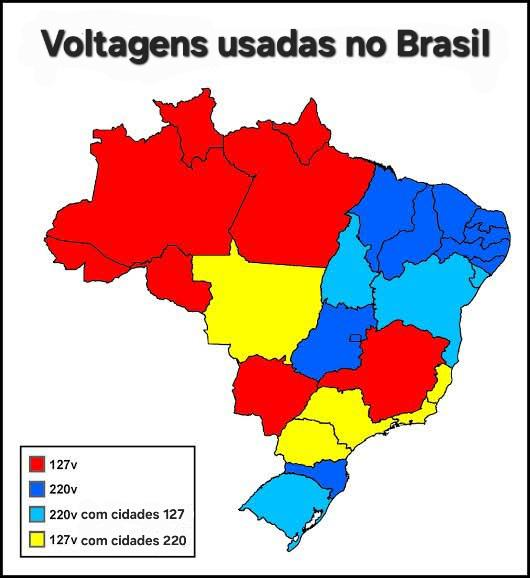
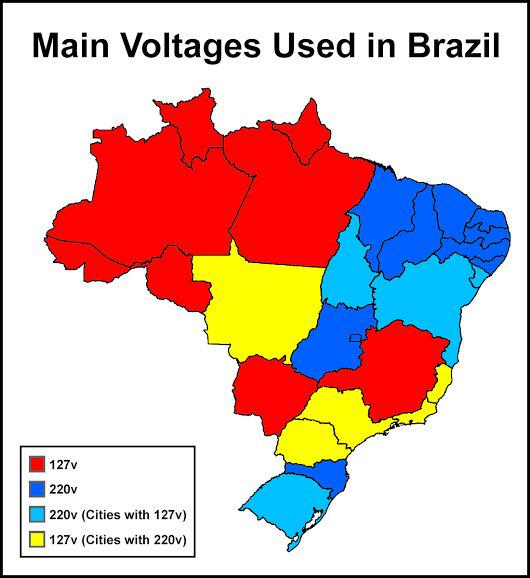
upd

diff --git a/N5020.md b/N5020.md
@@ -39,7 +39,7 @@ Internet access is included in your hotel room rate and provided in meeting spac
 ## Registration {-}
 
 Please [register](http://foo) your participation (in-person or virtual) with ISO.\
-Your information is needed for in-person attendees’ name tags and catering.\
+This is needed for name tags, transport, and catering.\
 
 ## Remote participation {-}
 
@@ -53,14 +53,14 @@ Use the "WG21" code when registering, either by [phone](tel:+55 22 2620-8850), o
 ### Travel and transportation {-}
 
 Buzios is served by the [Galeao International Airport (GIG)](https://www.riogaleao.com).\
-Transportation shuttles will be provided to the guests free of change.\
+Transportation shuttles will be provided to the guests free of charge.\
 Please [register](http://foo) when you are arriving, when you are leaving, how many persons, and the amount of luggage.\
 
 ### Meals and refreshments {-}
 
 Coffee, tea and petit-fours will be provided at the meeting for mid-morning and mid-afternoon breaks.\
-Attendees are responsible for their own meals. If you are staying at the venue hotel, breakfast will be included.\
-There are many dining options available within walking distance, including the hotel restaurant.\
+If you are staying at the venue hotel, breakfast will be included.\
+There are many restaurants within walking distance, including inside the hotel.\
 
 ### Weather {-}
 
@@ -125,17 +125,9 @@ You can expect flags indicating beach hazards and life saver stations and
 patrols.
 
 Outside of Búzios, the situation is too complicated to explain briefly.\
-In general, it is best to avoid using jewelry and other expensive items,
-such as high-end electronics.\
-Don't get distracted and stay a long time looking at your phone.\
-When using public transportation, watch your pockets and bags when standing,
-keep your bags and backpacks secured and closed, close the window if sitting next to one.\
-When walking on the streets, theft attempts will usually be in the form of a bike or motorcycle assisted grab-and-run.\
-Unless it looks obviously safe, walk far away from the road and bike lanes, and don't get distracted.\
-In public transport, thefts will usually start with some attempt at distraction or misdirection.\
-It will usually be something that happens and gets everyone looking at it, so protect your pockets when that happens.\
-Criminals usually don't operate on their own; they have lookouts and their own security hiding in plain sight,
-so you risk getting outnumbered if you react aggressively.\
+In general, it is best to avoid using jewelry and other expensive items.\
+Don't get distracted and stay a long time looking at your phone. Watch for pickpockets.\
+Avoid grab and runs by walking a safe distance from roads and bike lanes.\
 Don't go into favelas on your own. Don't blindly follow GPS. Don't walk alone in dark and deserted areas.\
 
 ### Tourism {-}
@@ -147,7 +139,9 @@ Don't go into favelas on your own. Don't blindly follow GPS. Don't walk alone in
 ::::::
 
 :::::: { style="background-color: white; padding: 10px;" }
-#### Rua das pedras (Cobble street) {-}
+#### [Rua das Pedras (Cobble Street)](https://maps.app.goo.gl/XPfmihZCdVYuBAR3A) {-}
+
+This is a pedestrian-only cobblestone street, where most of the bars, restaurants, coffee shops, stores, and art galleries are located.\
 ::::::
 
 :::::
@@ -159,7 +153,78 @@ Don't go into favelas on your own. Don't blindly follow GPS. Don't walk alone in
 ::::::
 
 :::::: { style="background-color: white; padding: 10px;" }
-#### Orla bardot (Bardot waterfront) {-}
+#### [Orla bardot (Bardot Waterfront)](https://maps.app.goo.gl/PHCmVohWr7nRjcbb6) {-}
+
+This is a big sidewalk with a nice view, which connects the end of the Cobble Street with the fisherman's wharf.\
+It is named after and has a statue of french actress Brigitte Bardot.\
+::::::
+
+:::::
+
+::::: { style="display:flex; flex-direction: row; justify-content: left;" }
+
+:::::: { style="background-color: white; width: 192px; padding: 10px;" }
+![](res/buzios/igreja-de-santanna.jpg){ width=100% }
+::::::
+
+:::::: { style="background-color: white; padding: 10px;" }
+#### [Igreja de Sant'Anna (Sant'Anna Church)](https://maps.app.goo.gl/2YnQH5CVxqv2coKK6) {-}
+
+It's an old catholic church, built in the 18th century, which was built high up in a lookout point, offering nice views.\
+::::::
+
+:::::
+
+::::: { style="display:flex; flex-direction: row; justify-content: left;" }
+
+:::::: { style="background-color: white; width: 192px; padding: 10px;" }
+![](res/buzios/ponta-da-lagoinha.jpg){ width=100% }
+::::::
+
+:::::: { style="background-color: white; padding: 10px;" }
+#### [Ponta da Lagoinha (Little Lake Point)](https://maps.app.goo.gl/M9PEqWtVLSbHc26r5) {-}
+
+Very old geological formation (~600M - 1B y/o), has interesting rock formations and natural pools.\
+::::::
+
+:::::
+
+::::: { style="display:flex; flex-direction: row; justify-content: left;" }
+
+:::::: { style="background-color: white; width: 192px; padding: 10px;" }
+![](res/buzios/mirante-da-azeda.jpg){ width=100% }
+::::::
+
+:::::: { style="background-color: white; padding: 10px;" }
+#### [Mirante da Azeda (Azeda Beach Lookout)](https://maps.app.goo.gl/Mkj1SP2D4otMiKVe9) {-}
+
+Lookout point located in a natural reserve, offers a nice view of the coast.
+::::::
+
+:::::
+
+::::: { style="display:flex; flex-direction: row; justify-content: left;" }
+
+::::: { style="display:flex; flex-direction: column; justify-content: left;" }
+
+:::::: { style="background-color: white; width: 192px; padding: 10px;" }
+![](res/buzios/boat.jpg){ width=100% }
+::::::
+
+:::::: { style="background-color: white; width: 192px; padding: 10px;" }
+![](res/buzios/buggy.jpg){ width=100% }
+::::::
+
+:::::
+
+:::::: { style="background-color: white; padding: 10px;" }
+#### [Water and other Activities](https://praiasdebuzios.com.br) {-}
+
+There are many water rides available on the island, including schooner, catamaran, speedboat.\
+Both for sightseeing tours, and also for transport.\
+Dune buggy tours are also available, and also possible to rent (requires driving license).\
+Other activities include diving, golf, kite surf, and wind surf.
+
 ::::::
 
 :::::
